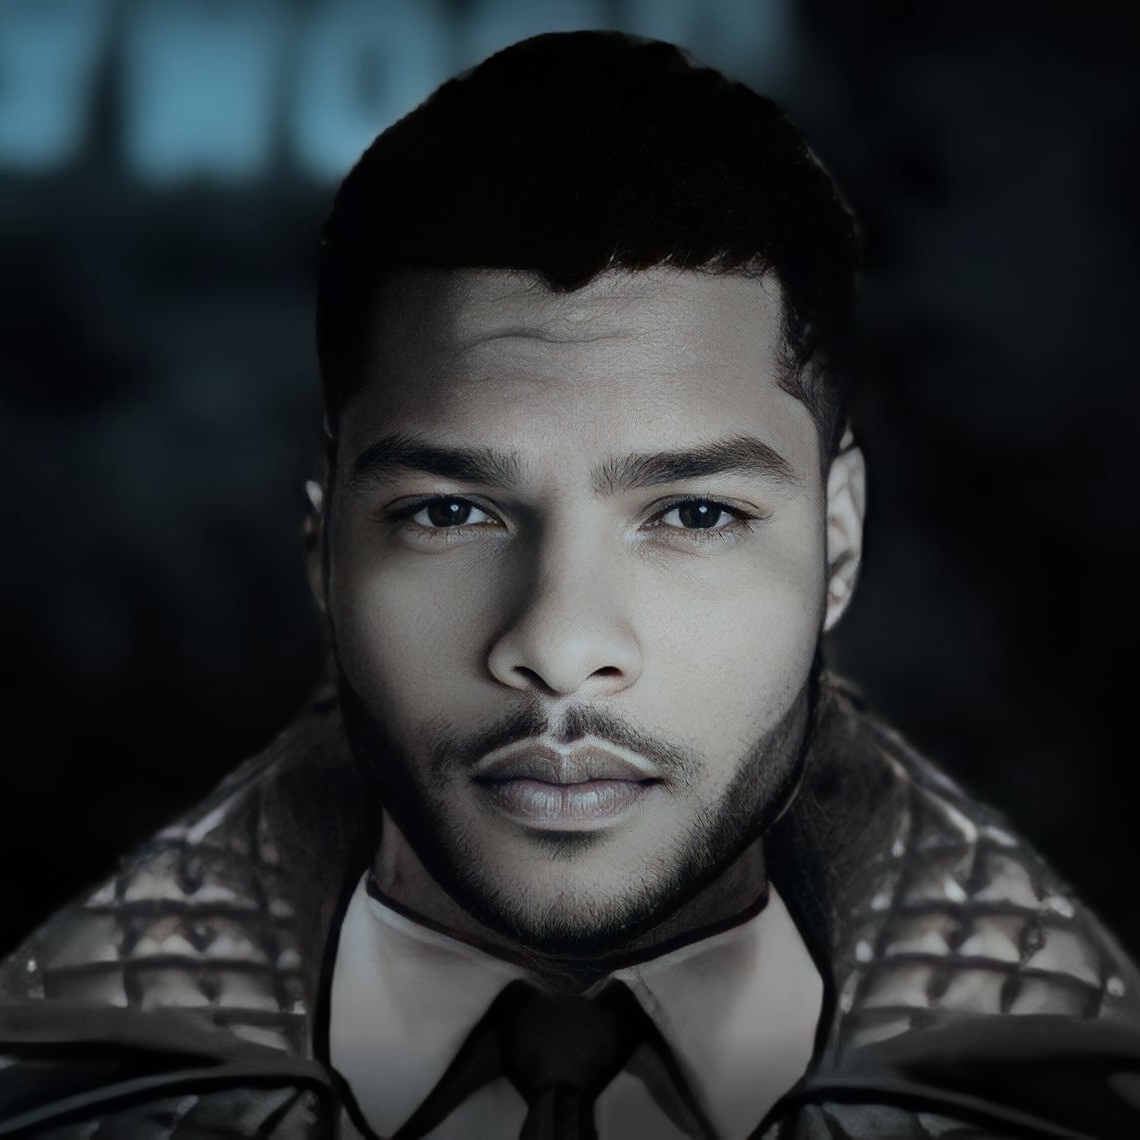
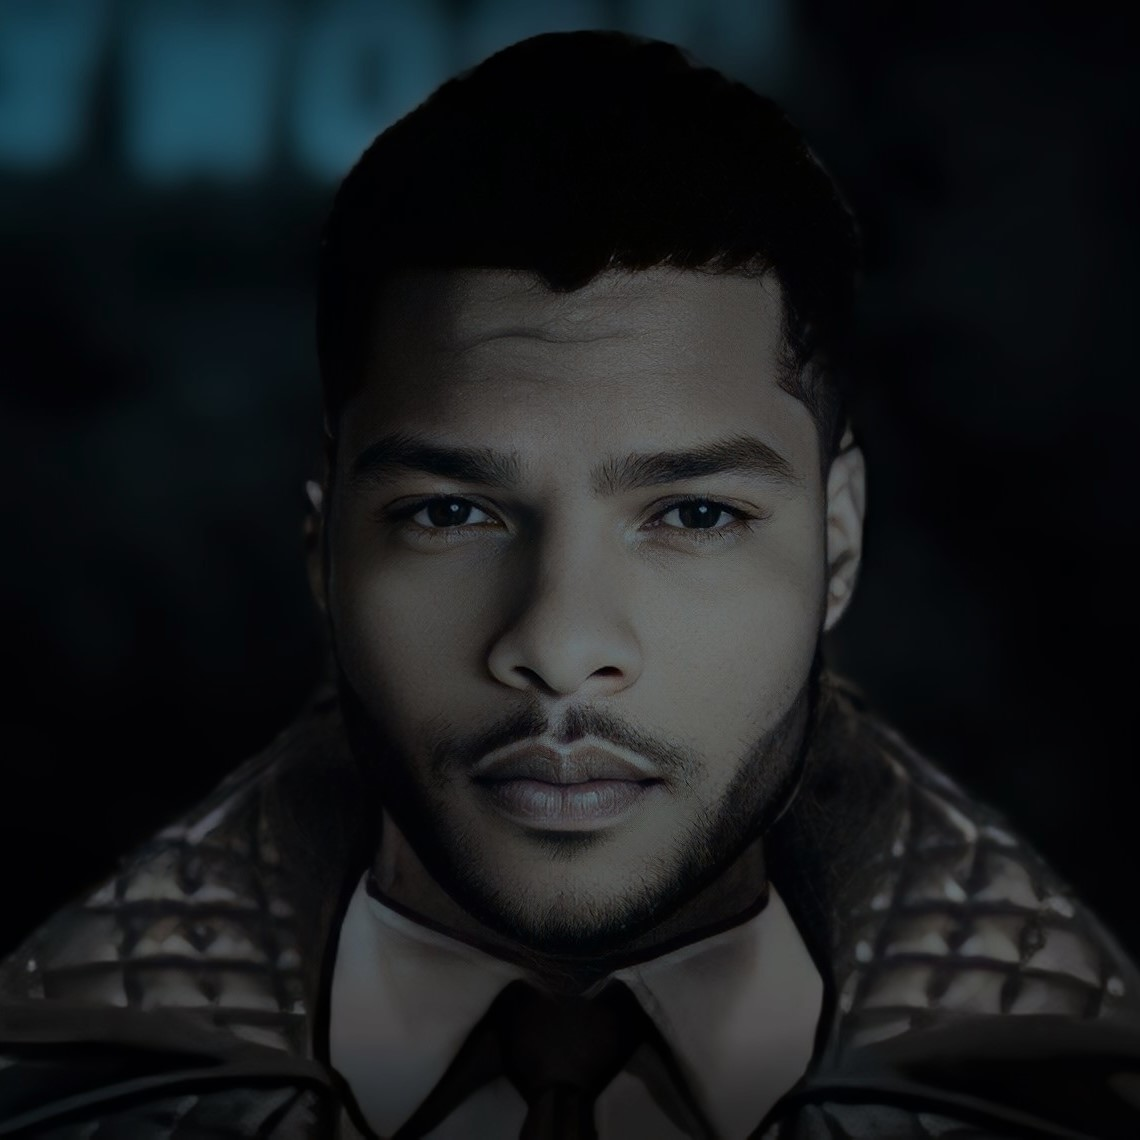
bg-teste

diff --git a/css/style.css b/css/style.css
@@ -394,6 +394,11 @@ body {
     background-repeat: no-repeat;
 }
 
+@media (max-width: 767.98px) {
+    .home {
+        background-image: url(/img/teste.png);
+    }
+}
 
 .home .container {
     position: relative;
@@ -417,7 +422,7 @@ body {
 
 @media (max-width: 767.98px) {
     .lobby__wrapper {
-        padding-top: 4rem;
+        padding-top: 26rem;
     }
 }
 
